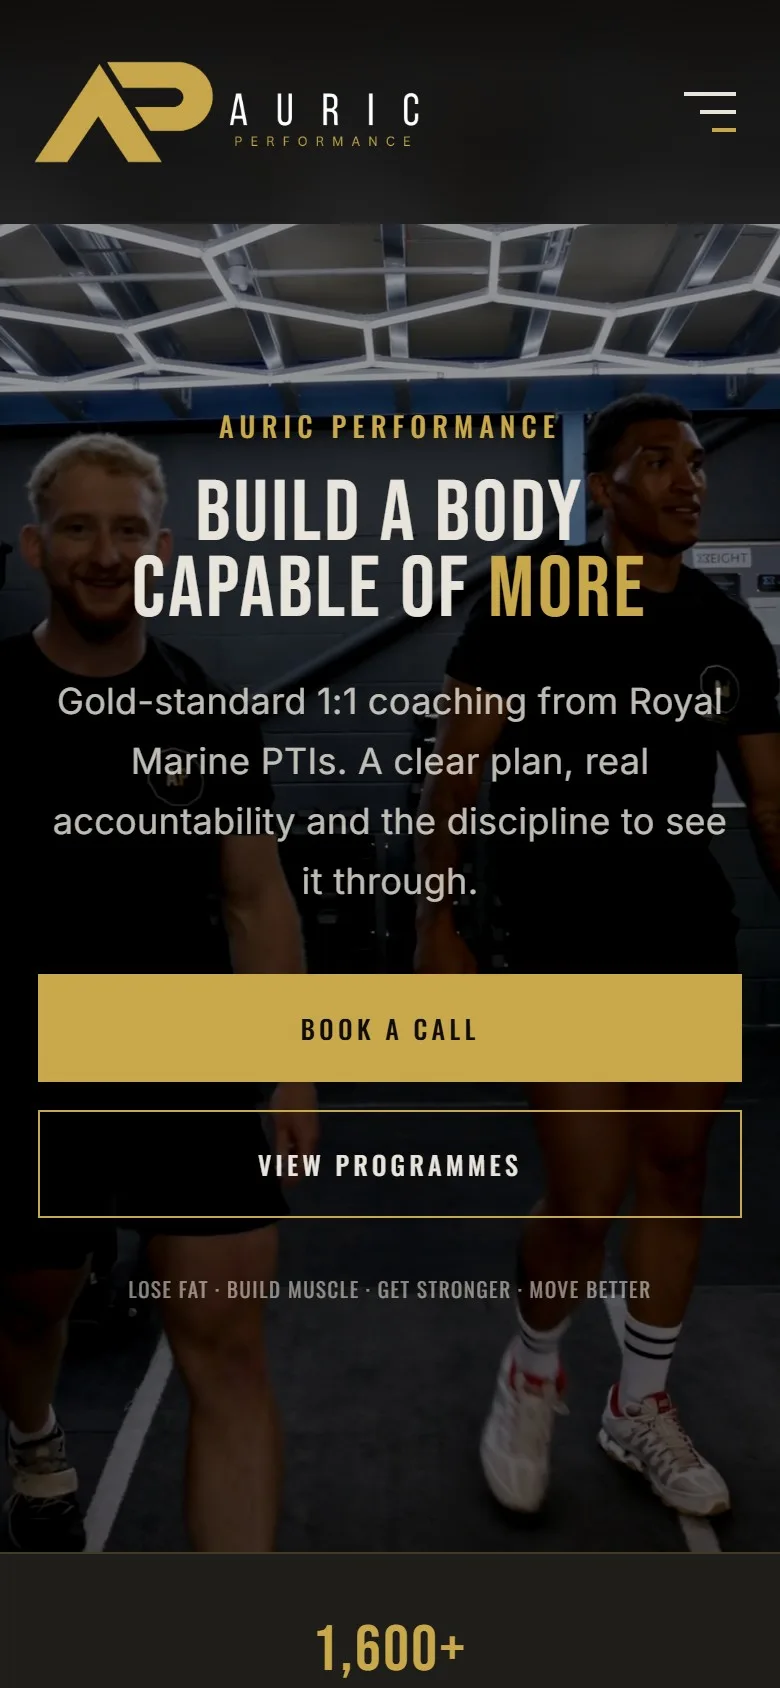
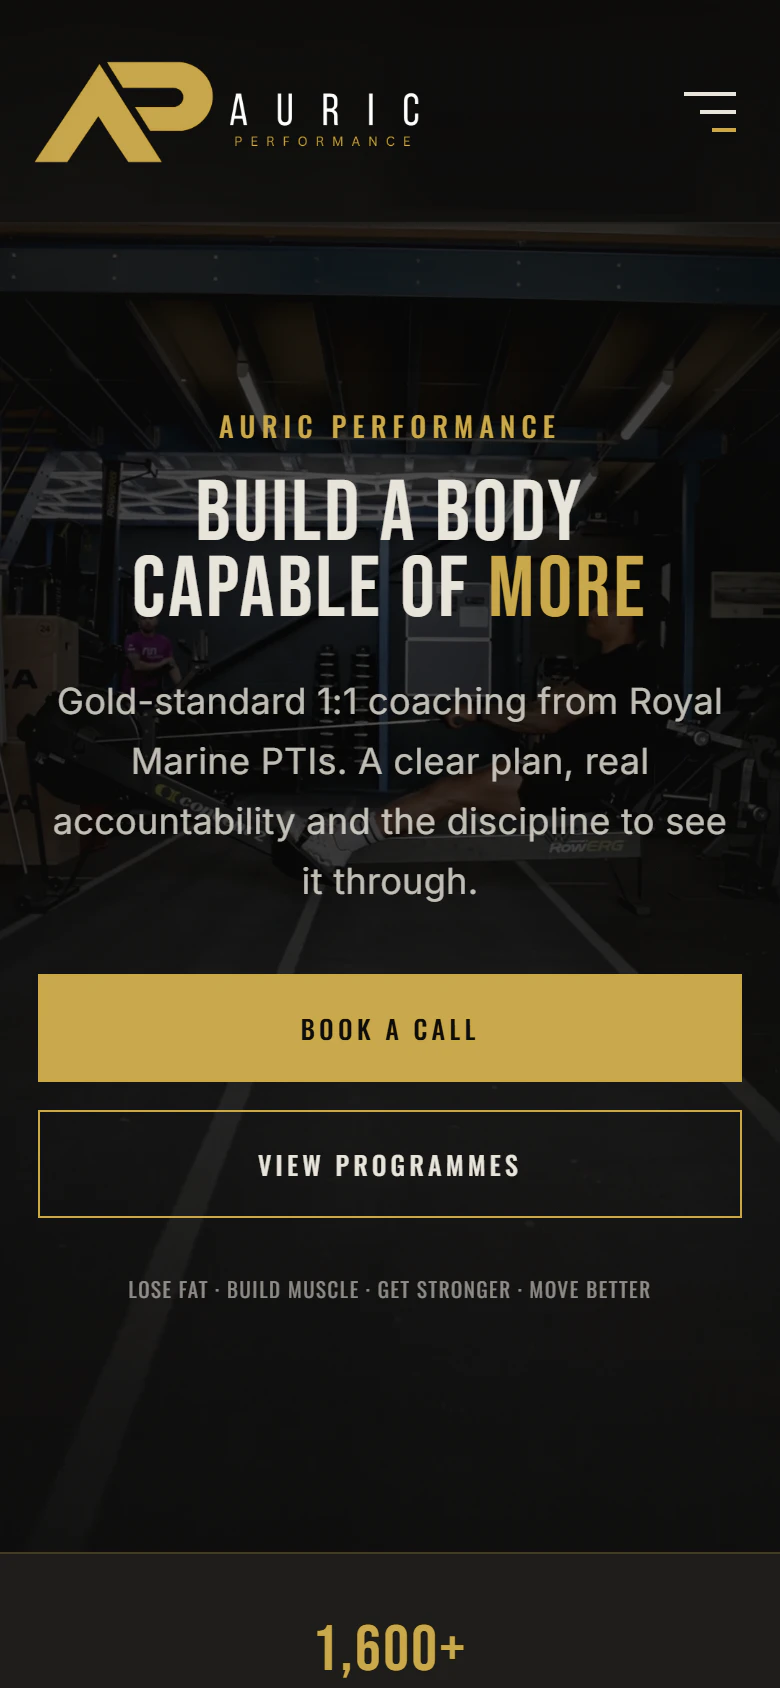
New Lost in Hound and Oriels phones on Our Work, sharper case study heroes, and an Aspects of Oak title tweak.
- Our Work: swap in the new Lost in Hound and Oriels mobile screenshots.
- Oriels and Auric case studies: re-capture the desktop and mobile heroes
  with the background video paused on a clean frame, so they are no longer
  blurry, and bump the cache-busting versions.
- Aspects of Oak: hero title now ends "Enquiries & Leads" on one pink line.

diff --git a/content/pages/our-work.html b/content/pages/our-work.html
@@ -811,7 +811,7 @@
           <h3>Growing Lost In Hound From Brand Concept To Thriving Ecommerce Brand</h3>
           <div class="mmw-devices">
             <div class="mmw-phone">
-              <img src="/media/work/lost-in-hound-phone-480.webp" srcset="/media/work/lost-in-hound-phone-480.webp 480w, /media/work/lost-in-hound-phone-840.webp 840w" sizes="(max-width: 1100px) 32vw, 210px" alt="The Lost in Hound website on a phone" width="480" height="1043">
+              <img src="/media/work/lost-in-hound-phone-2026-480.webp" srcset="/media/work/lost-in-hound-phone-2026-480.webp 480w, /media/work/lost-in-hound-phone-2026-840.webp 840w" sizes="(max-width: 1100px) 32vw, 210px" alt="The Lost in Hound website on a phone" width="480" height="1043">
             </div>
           </div>
           <div class="mmw-actions">
@@ -827,7 +827,7 @@
           <h3>Growing Oriels Exeter Into One Of The City’s Most In-Demand Venues</h3>
           <div class="mmw-devices">
             <div class="mmw-phone">
-              <img src="/media/work/oriels-phone-480.webp" srcset="/media/work/oriels-phone-480.webp 480w, /media/work/oriels-phone-840.webp 840w" sizes="(max-width: 1100px) 32vw, 210px" alt="The Oriels website on a phone" width="480" height="1043">
+              <img src="/media/work/oriels-phone-2026-480.webp" srcset="/media/work/oriels-phone-2026-480.webp 480w, /media/work/oriels-phone-2026-840.webp 840w" sizes="(max-width: 1100px) 32vw, 210px" alt="The Oriels website on a phone" width="480" height="1043">
             </div>
           </div>
           <div class="mmw-actions">

diff --git a/content/pages/oriels-case-study.html b/content/pages/oriels-case-study.html
@@ -177,8 +177,8 @@
 
 <figure class="orl-full">
   <picture>
-    <source media="(max-width: 800px)" srcset="/media/case-studies/oriels/hero-mobile.webp?v=3">
-    <img src="/media/case-studies/oriels/hero.webp?v=3" alt="The Oriels Exeter homepage, a cocktail bar and venue proudly independent since 2025" width="2880" height="1640">
+    <source media="(max-width: 800px)" srcset="/media/case-studies/oriels/hero-mobile.webp?v=4">
+    <img src="/media/case-studies/oriels/hero.webp?v=4" alt="The Oriels Exeter homepage, a cocktail bar and venue proudly independent since 2025" width="2880" height="1640">
   </picture>
 </figure>
 
@@ -242,7 +242,7 @@
 <section class="orl-band" aria-label="Brunch, the website, and the DJ booth">
   <div class="orl-wrap orl-trio">
     <img src="/media/case-studies/oriels/brunch.webp" alt="A bottomless brunch table at Oriels, with pizza, cocktails and karaoke microphones" width="1800" height="1200">
-    <video class="orl-scroll" autoplay muted loop playsinline preload="metadata" poster="/media/case-studies/oriels/hero.webp?v=3" aria-label="The Oriels Exeter website scrolling from the homepage through the venue">
+    <video class="orl-scroll" autoplay muted loop playsinline preload="metadata" poster="/media/case-studies/oriels/hero.webp?v=4" aria-label="The Oriels Exeter website scrolling from the homepage through the venue">
       <source src="/media/case-studies/oriels/scroll.mp4?v=5" type="video/mp4">
       <track kind="captions" label="English captions" src="/media/case-studies/oriels/scroll.vtt" srclang="en">
     </video>

diff --git a/content/pages/auric-performance-case-study.html b/content/pages/auric-performance-case-study.html
@@ -170,8 +170,8 @@
 
 <figure class="aur-full">
   <picture>
-    <source media="(max-width: 800px)" srcset="/media/case-studies/auric/hero-mobile.webp?v=4">
-    <img src="/media/case-studies/auric/hero.webp?v=4" alt="The Auric Performance homepage" width="2880" height="1800">
+    <source media="(max-width: 800px)" srcset="/media/case-studies/auric/hero-mobile.webp?v=5">
+    <img src="/media/case-studies/auric/hero.webp?v=5" alt="The Auric Performance homepage" width="2880" height="1800">
   </picture>
 </figure>
 
@@ -235,7 +235,7 @@
 <section class="aur-band" aria-label="The Auric Performance website">
   <div class="aur-wrap aur-trio">
     <img src="/media/case-studies/auric/three.webp?v=3" alt="The Complete Package on the Auric Performance website" width="2880" height="1800">
-    <video class="aur-scroll" autoplay muted loop playsinline preload="metadata" poster="/media/case-studies/auric/hero.webp?v=4" aria-label="The Auric Performance website scrolling from the homepage">
+    <video class="aur-scroll" autoplay muted loop playsinline preload="metadata" poster="/media/case-studies/auric/hero.webp?v=5" aria-label="The Auric Performance website scrolling from the homepage">
       <source src="/media/case-studies/auric/scroll.mp4?v=3" type="video/mp4">
       <track kind="captions" label="English captions" src="/media/case-studies/auric/scroll.vtt" srclang="en">
     </video>

diff --git a/content/pages/aspects-of-oaks-case-study.html b/content/pages/aspects-of-oaks-case-study.html
@@ -13,6 +13,7 @@
   color: #fff;
 }
 .aok-hero h1 { font-size: clamp(1.7rem, 2.7vw, 3rem) !important; }
+.aok-hero h1 .mm-line-pink { white-space: nowrap; }
 .aok-page .mm-line { display: block; }
 .aok-page .mm-line-pink { color: var(--mm-pink) !important; font-style: normal; }
 .aok-page p,
@@ -156,7 +157,7 @@
   <div class="aok-wrap aok-split">
     <div class="aok-intro">
       <span class="aok-eyebrow">Case study</span>
-      <h1 id="aok-hero-title"><span class="mm-line">Growing Aspects</span> <span class="mm-line">Of Oak’s Reach,</span> <span class="mm-line">Enquiries</span> <span class="mm-line mm-line-pink">And Leads</span></h1>
+      <h1 id="aok-hero-title"><span class="mm-line">Growing Aspects</span> <span class="mm-line">Of Oak’s Reach,</span> <span class="mm-line mm-line-pink">Enquiries &amp; Leads</span></h1>
       <p class="aok-lead">A craftsmanship-led brand, given the reach and lead generation to match its quality.</p>
       <a class="aok-btn" href="https://aspectsofoak.co.uk/" target="_blank" rel="noopener">Visit the website</a>
     </div>
